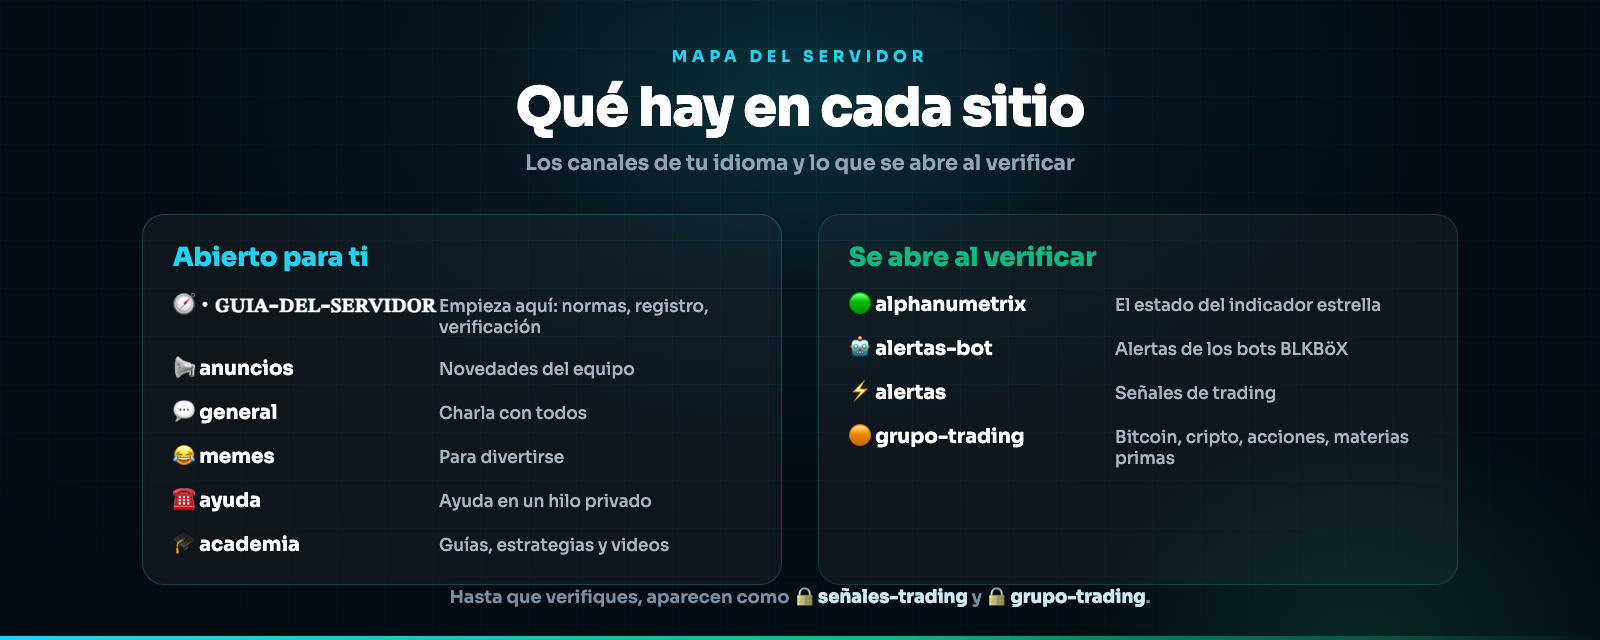
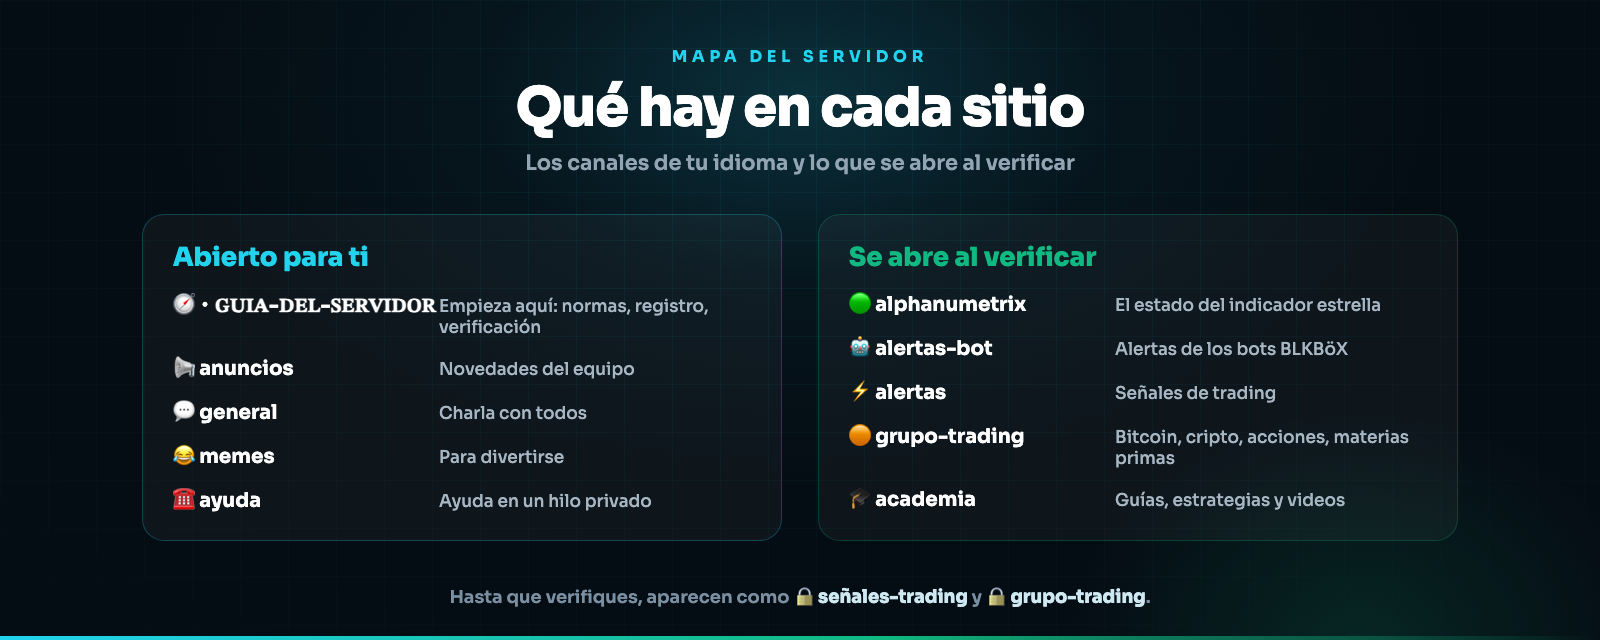
Trading Floor: 🔒 trading-group at the bottom, academy for verified members, history rules
- 🔒 trading-group moves to the bottom of Trading Floor, so unverified
  members see it last with the closing ┗; verified members see the
  academy last.
- The academy is for verified members only.
- 🔒 trade-signals and 🔒 trading-group allow read history, so the Verify
  panel posted before someone arrived is there to read; help-desk already
  did.
- General and memes deny read history to the language roles, and drop the
  history allow old member roles still carried, so members see only what's
  posted while they're there.
- The FAQ and the channel map say the academy opens once you verify.

diff --git a/bot/scripts/onboarding.ts b/bot/scripts/onboarding.ts
@@ -62,6 +62,8 @@ interface Spec {
   tier: Tier;
   kind?: Kind;
   readOnly?: boolean;
+  /** Members see only messages sent while they're there, not the backlog. */
+  noHistory?: boolean;
   type?: "text" | "voice" | "forum";
   topic?: string;
   /** Where this channel lived before the restructure; it is moved from there instead of recreated. */
@@ -83,7 +85,7 @@ interface Spec {
  * No voice channels: one per language is more rooms than anyone would use.
  */
 // Members see the real channel, unverified members see its 🔒 stand-in with the Verify button; each sees one set.
-const LAYOUT: { cat: "ann" | "com" | "ref"; top?: true; kind: Kind; tier: Tier; readOnly?: boolean; type?: "voice" | "forum"; panel?: Spec["panel"]; lockFor?: Kind }[] = [
+const LAYOUT: { cat: "ann" | "com" | "ref"; top?: true; kind: Kind; tier: Tier; readOnly?: boolean; noHistory?: true; type?: "voice" | "forum"; panel?: Spec["panel"]; lockFor?: Kind }[] = [
   // Outside every category, so it sits above them all; each language role sees only its own.
   { cat: "ann", top: true, kind: "start", tier: "free", readOnly: true, panel: "start" },
   { cat: "ann", kind: "announcements", tier: "free", readOnly: true },
@@ -92,19 +94,19 @@ const LAYOUT: { cat: "ann" | "com" | "ref"; top?: true; kind: Kind; tier: Tier; 
   { cat: "ann", kind: "signals", tier: "member", readOnly: true },
   // One 🔒 trade-signals channel stands in for alphanumetrix, bot-alerts and trade-alerts.
   { cat: "ann", kind: "teaser", tier: "teaser", readOnly: true, panel: "locked" },
-  // One 🔒 trading-group channel, on top, stands in for bitcoin, crypto, stocks and commodities.
-  { cat: "com", kind: "tradegate", tier: "teaser", readOnly: true, panel: "locked" },
-  // General and memes are open to everyone who picked a language; the 🔒 panels carry the Verify button.
+  // General and memes are open to everyone who picked a language, without the backlog; the 🔒 panels carry the Verify button.
   { cat: "com", kind: "bitcoin", tier: "member" },
   { cat: "com", kind: "crypto", tier: "member" },
   { cat: "com", kind: "stocks", tier: "member" },
   { cat: "com", kind: "commodities", tier: "member" },
-  { cat: "com", kind: "general", tier: "free" },
-  { cat: "com", kind: "memes", tier: "free" },
-  // Help-desk last in Community, memes just above it.
+  { cat: "com", kind: "general", tier: "free", noHistory: true },
+  { cat: "com", kind: "memes", tier: "free", noHistory: true },
   { cat: "com", kind: "help", tier: "help", readOnly: true, panel: "support" },
-  // One forum for guides, strategies, videos and questions, under help-desk: everyone reads, verified members post.
-  { cat: "com", kind: "academy", tier: "trader", type: "forum" },
+  // One forum for guides, strategies, videos and questions, under help-desk, for verified members.
+  { cat: "com", kind: "academy", tier: "member", type: "forum" },
+  // One 🔒 trading-group channel, at the bottom, stands in for bitcoin, crypto, stocks and commodities.
+  // Unverified members see it last (┗), verified members see the academy last.
+  { cat: "com", kind: "tradegate", tier: "teaser", readOnly: true, panel: "locked" },
 ];
 
 /** The categories as they were named with an emoji; renamed in place to the folder style below. */
@@ -286,7 +288,7 @@ for (const lang of LANGS) {
       legacy.push({ name: DAYTRADE_OLD[lang], parent: CATS[lang][l.cat] });
     }
     const topic = l.lockFor ? bare(NAMES[lang][l.lockFor]) : l.panel === "locked" ? bare(name) : undefined;
-    SPECS.push({ name, parent: l.top ? null : CATS[lang][l.cat], lang, tier: l.tier, kind: l.kind, readOnly: l.readOnly, type: l.type, panel: l.panel, topic, legacy });
+    SPECS.push({ name, parent: l.top ? null : CATS[lang][l.cat], lang, tier: l.tier, kind: l.kind, readOnly: l.readOnly, noHistory: l.noHistory, type: l.type, panel: l.panel, topic, legacy });
   }
 }
 
@@ -655,7 +657,7 @@ async function stepCleanup(ctx: Ctx) {
 }
 
 /** The overwrites a channel ends up with: its staff overwrites kept, the tier's language roles laid on top. */
-function overwritesFor(ctx: Ctx, ch: NonThreadGuildBasedChannel | CategoryChannel, lang: Lang | "all", tier: Tier, readOnly: boolean): OverwriteResolvable[] {
+function overwritesFor(ctx: Ctx, ch: NonThreadGuildBasedChannel | CategoryChannel, lang: Lang | "all", tier: Tier, readOnly: boolean, noHistory = false): OverwriteResolvable[] {
   const { guild } = ctx;
   const me = guild.members.me!;
   const langRoleIds = new Set(LANGS.flatMap((l) => [ctx.role(l, "base"), ctx.role(l, "member")]).filter((x): x is string => !!x));
@@ -668,6 +670,8 @@ function overwritesFor(ctx: Ctx, ch: NonThreadGuildBasedChannel | CategoryChanne
     if (replaced.has(o.id) || o.id === guild.roles.everyone.id) {
       allow &= ~P.ViewChannel;
       deny &= ~P.ViewChannel;
+      // A leftover history allow on an old member role would bring the backlog back.
+      if (noHistory) allow &= ~P.ReadMessageHistory;
       if (allow === 0n && deny === 0n) continue;
     }
     out.set(o.id, { id: o.id, type: o.type, allow, deny });
@@ -689,12 +693,14 @@ function overwritesFor(ctx: Ctx, ch: NonThreadGuildBasedChannel | CategoryChanne
     set(everyone, OverwriteType.Role, 0n, P.ViewChannel);
     for (const l of langs) {
       const base = role(l, "base"), member = role(l, "member");
-      if (tier === "verify" || tier === "teaser") base && set(base, OverwriteType.Role, P.ViewChannel, 0n);
+      // History on, so the Verify panel posted before they arrived is there to read.
+      if (tier === "verify" || tier === "teaser") base && set(base, OverwriteType.Role, P.ViewChannel | P.ReadMessageHistory, 0n);
       if (tier === "free") {
         // An open channel allows Send outright, so a leftover @everyone deny can't mute it.
         const allow = readOnly ? P.ViewChannel : P.ViewChannel | P.SendMessages | P.SendMessagesInThreads;
-        base && set(base, OverwriteType.Role, allow, 0n);
-        member && set(member, OverwriteType.Role, allow, 0n);
+        const deny = noHistory ? P.ReadMessageHistory : 0n;
+        base && set(base, OverwriteType.Role, allow, deny);
+        member && set(member, OverwriteType.Role, allow, deny);
       }
       if (tier === "help") {
         // Members write only inside the private thread the Get help button opens for them, never in the channel.
@@ -723,7 +729,8 @@ function describe(guild: Guild, ows: OverwriteResolvable[]) {
       const a = BigInt((o.allow as bigint) ?? 0n), d = BigInt((o.deny as bigint) ?? 0n);
       const v = a & P.ViewChannel ? "+view" : d & P.ViewChannel ? "-view" : "";
       const s = d & P.SendMessages ? " -send" : "";
-      return v || s ? `${name}${v ? " " + v : ""}${s}` : null;
+      const h = a & P.ReadMessageHistory ? " +history" : d & P.ReadMessageHistory ? " -history" : "";
+      return v || s || h ? `${name}${v ? " " + v : ""}${s}${h}` : null;
     })
     .filter(Boolean)
     .join(", ");
@@ -742,7 +749,7 @@ async function stepPerms(ctx: Ctx) {
   for (const s of [...SPECS.slice(1), PICKER]) {
     const ch = findChannel(guild, s);
     if (!ch) { log(`  ! skip #${s.name} (missing)`); continue; }
-    const ows = overwritesFor(ctx, ch, s.lang, s.tier, !!s.readOnly);
+    const ows = overwritesFor(ctx, ch, s.lang, s.tier, !!s.readOnly, !!s.noHistory);
     log(`  #${s.name} [${s.tier}] ${describe(guild, ows)}`);
     if (ctx.apply) await ch.permissionOverwrites.set(ows, "onboarding: language tiers");
   }

diff --git a/bot/assets/support/faq.md b/bot/assets/support/faq.md
@@ -60,9 +60,8 @@ Also asked: channel list explained, what are all these channels for
 Announcements carries news from the team. General is open chat and memes is
 for fun. help-desk is where you open a help thread. The 🔒 channels hold the
 signals and the trading group, and open once you verify your UID. The 🎓
-academy, at the very bottom of the Trading Floor, holds setup guides, trading
-strategies and video tutorials: everyone can read it, and verified members can
-post and reply.
+academy, near the bottom of the Trading Floor, holds setup guides, trading
+strategies and video tutorials, and opens once you verify.
 Guide: channel-map
 
 ## How do I find my help thread again?
@@ -216,8 +215,8 @@ Guide: verify
 ## What do I get after I verify?
 Also asked: what unlocks, benefits of verifying, what's in the locked channels
 The AlphanumetriX channel, bot alerts and trade alerts, the trading group
-chats (bitcoin, crypto, stocks, commodities), and the right to post and reply
-in the 🎓 academy (everyone can read it).
+chats (bitcoin, crypto, stocks, commodities), and the 🎓 academy with its
+guides, strategies and video tutorials.
 Guide: channel-map
 
 ## Where are the sign-up links?
@@ -414,11 +413,10 @@ open once you verify your UID.
 
 ## What is in the academy?
 Also asked: reference, forums, tutorials, setup guides, trading strategies, videos
-The 🎓 academy is one forum at the bottom of the Trading Floor. Each post has a tag:
+The 🎓 academy is one forum near the bottom of the Trading Floor, for verified members. Each post has a tag:
 Setup guide (the tools step by step), Strategy (how the team uses the
 signals), Video tutorial, Question and Discussion. Tap a tag at the top of the
-forum to see only those posts. Everyone can read it; verified members can post
-and reply.
+forum to see only those posts. It opens once you verify.
 
 ## Can I ask questions about a trade?
 Also asked: what do you think about this coin, chart review
